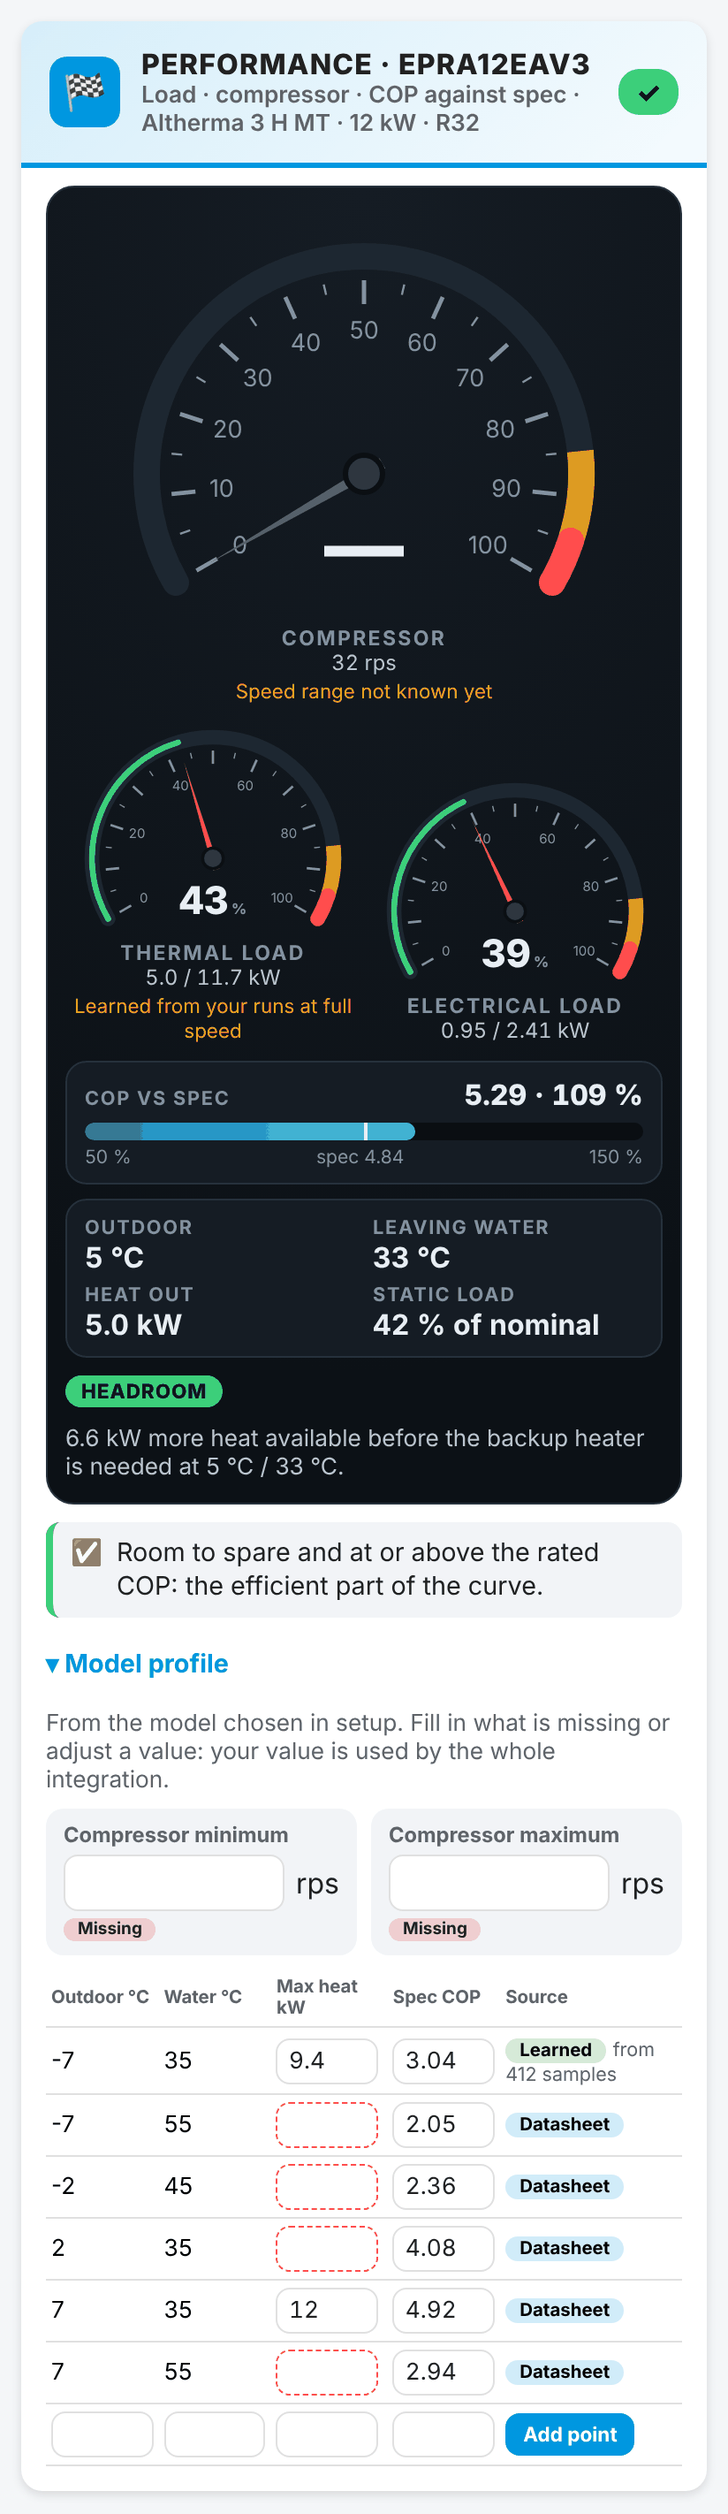
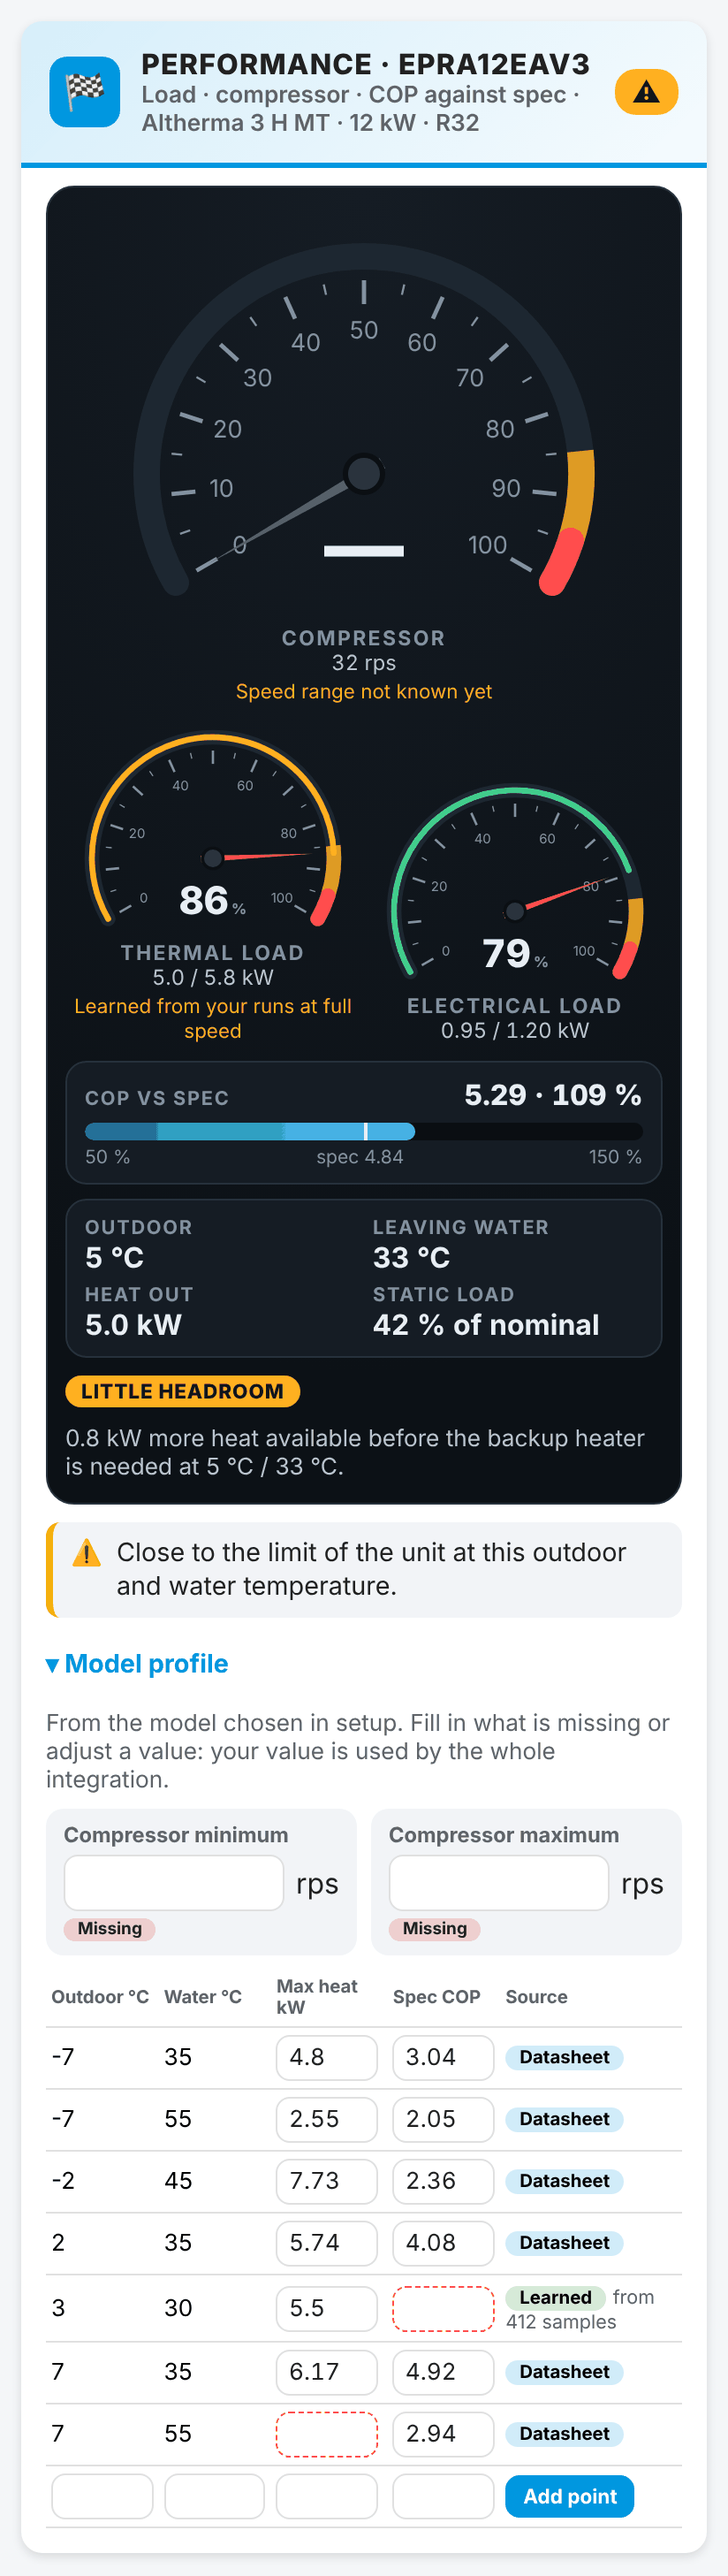
Docs: where the maximum heat comes from, card 1.1.0 changelog, screenshots (#473)
Order per point: manual, datasheet capacity (every model), learned from
runs at full speed, nominal kW only without any datasheet capacity.

Part of #473

diff --git a/docs/CONFIGURATION.md b/docs/CONFIGURATION.md
@@ -777,15 +777,22 @@ Leave a field empty to use the datasheet (or the learned value).
 |---|---|---|
 | Nominal heat output | `kw`, only when your unit differs from the datasheet | datasheet |
 | Compressor minimum / maximum speed | `rps_min` / `rps_max` | learned from your runs (5th percentile of run averages, 95th percentile of run peaks, steady heating and hot-water runs of 20 min or more over 60 days, after 20 runs) |
-| Datasheet points | list of `t_out` (outdoor °C), `t_lwc` (water °C), `hmax` (maximum heat kW, from Daikin's capacity tables; not the datasheet `hc`, which is the capacity at the EN 14511 rating point), `cop` | datasheet |
+| Datasheet points | list of `t_out` (outdoor °C), `t_lwc` (water °C), `hmax` (maximum heat kW: the datasheet capacity `hc`, else learned, else your value), `cop` | datasheet |
 
-Maximum heat from the datasheet: when the model's datasheet lists
-full-capacity points (its A7/W35 capacity is at least 80 % of the nominal
-kW, for example the ERLA11: 10.6 of 11 kW), those capacities are used as
-the maximum heat. When it lists part-load rating points (Hydrosplit EPRA:
-41-77 %), the nominal capacity (the number in the model name: EPRA12 =
-12 kW) is used as the maximum heat at A7/W35. Every bundled model has at
-least one maximum; your own values always win.
+Where the maximum heat comes from, per point (#473):
+
+1. **Your value** (manual) always wins.
+2. **Datasheet**: every capacity in the model's datasheet (`hc`, Daikin
+   product tables) is the maximum heat at that outdoor / water
+   temperature, for every model (EPRA12: 6.17 kW at A7/W35).
+3. **Learned**: for a condition the datasheet does not list, the
+   integration learns the maximum from your own runs: heating samples at
+   90 % of the maximum compressor speed or more, per 5 K outdoor and 5 K
+   water band, 95th percentile of the heat output, after 30 samples on
+   3 days (last 365 days, refreshed every 6 h).
+4. **Nominal**: a model whose datasheet has no capacity at all uses the
+   nominal kW (the number in the model name) at A7/W35, and the card says
+   so.
 
 Example: the datasheet gives the COP at A-7/W55 but not the maximum heat.
 Add it as a point:

diff --git a/dashboard/cards/daikin-performance-card/README.md b/dashboard/cards/daikin-performance-card/README.md
@@ -78,18 +78,30 @@ Home Assistant). It starts from the datasheet of the model chosen in setup:
   steady runs; type a value to set your own.
 - **Datasheet points**: per outdoor and water temperature the **maximum
   heat** (`hmax`) and the **spec COP**. A dashed red box is missing.
-  When your model's datasheet lists full-capacity points (A7/W35 capacity
-  at least 80 % of the nominal kW, for example ERLA, EDLA, ERGA, EBLA),
-  they fill the maximum heat. When it lists part-load rating points
-  (Hydrosplit EPRA), the nominal capacity (EPRA12 = 12 kW) is used at
-  A7/W35 and the dial says so; add colder points from Daikin's capacity
-  tables if you want more precision.
+  See [Where the maximum heat comes from](#where-the-maximum-heat-comes-from).
 - **Add point** for a condition the datasheet does not list.
 
 Every value shows its source: **Datasheet**, **Learned** or **Manual**.
 **Remove my value** goes back to the datasheet or the learned value. Your
 values are saved in the integration and used everywhere: COP against the
 datasheet, the normalised COP, alerts and the other cards.
+
+## Where the maximum heat comes from
+
+Per outdoor and water temperature, in this order:
+
+1. **Manual**: your own value.
+2. **Datasheet**: the capacities in your model's Daikin datasheet, for
+   every model.
+3. **Learned**: for conditions the datasheet does not list, learned from
+   your own runs at full compressor speed (90 % of the maximum speed or
+   more, 5 K bands, after 30 samples on 3 days). The thermal dial says
+   "Learned from your runs at full speed" and the profile shows the
+   number of samples.
+4. **Nominal**: when the datasheet has no capacity at all, the nominal kW
+   at A7/W35; the dial says so.
+
+![Learned maximum heat](screenshot-learned.png)
 
 ## Troubleshooting
 

diff --git a/CHANGELOG.md b/CHANGELOG.md
@@ -2,7 +2,21 @@
 
 ## [Unreleased]
 
+### Added
+- Maximum heat learned from your own runs (#473): heating samples at 90 %
+  of the maximum compressor speed or more, per 5 K outdoor / 5 K water
+  band, 95th percentile of the heat, after 30 samples on 3 days, fill the
+  conditions the datasheet does not list (source "learned"). cop_samples
+  store thermal_kw, power_w and rps; data migration v34 fills them for
+  existing samples (marker data_migration_v34_completed). hp_specs and
+  diagnostics expose hmax_learned; Performance card 1.1.0 says "Learned
+  from your runs at full speed".
+
 ### Changed
+- Every datasheet capacity is the maximum heat at its point, for every
+  model, also the Hydrosplit EPRA (EPRA12: 6.17 kW at A7/W35 instead of
+  the nominal 12 kW of 1.28.1); the nominal kW at A7/W35 is only used when
+  the datasheet has no capacity at all (#473).
 - Datasheet: heating capacities from the Daikin product tables added for
   EDLQ05/07CAV3, EBLQ/EDLQ011/014/016CAV3 (A7/W35 + A7/W45, nominal COP
   corrected to the table: EDLQ011-016 4.61 / 4.30 / 4.26), EKHBRD011-016
@@ -13,6 +27,8 @@
   the datasheet for these models (#473).
 
 ### Tests
+- test_473_hmax_learning (bands, thresholds, migration v34, coordinator
+  refresh), test_473_card (learned point in EN / NL / FR).
 - test_392_datasheet_audit: capacities pinned per product table, unverified
   capacities kept with a note; test_ht_profile_and_datasheet allows hc.
 

diff --git a/dashboard/cards/daikin-performance-card/CHANGELOG.md b/dashboard/cards/daikin-performance-card/CHANGELOG.md
@@ -1,5 +1,20 @@
 # Changelog · Performance card (native)
 
+## [1.1.0] - Unreleased
+
+### Added
+
+- Maximum heat learned from your own runs at full speed for conditions
+  the datasheet does not list: the thermal dial says "Learned from your
+  runs at full speed", the profile shows the Learned chip with the
+  number of samples (#473).
+
+### Changed
+
+- Every datasheet capacity is the maximum heat, also on the Hydrosplit
+  EPRA; the nominal kW is only used when the datasheet has no capacity
+  (#473).
+
 ## [1.0.1] - 2026-11-21
 
 ### Fixed
